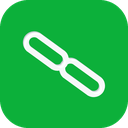
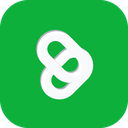
Cross two shorter chain links at 45 degrees.
The toolbar icon shows one link passing through the other, on both the dark and green versions.

Changed region(s): [[0.1562, 0.2188, 0.8438, 0.7812], [0.3125, 0.4688, 0.3438, 0.5]]

diff --git a/CHANGELOG.md b/CHANGELOG.md
@@ -4,6 +4,10 @@ Versions match the `version` field in `manifest.json`. GitHub releases use the s
 
 ## Unreleased
 
+## 1.1.4 - 2026-10-04
+
+- Draw the toolbar icon as two shorter chain links crossed at 45 degrees.
+
 ## 1.1.3 - 2026-10-04
 
 - Show two chain links on the toolbar icon, at the same angle.
